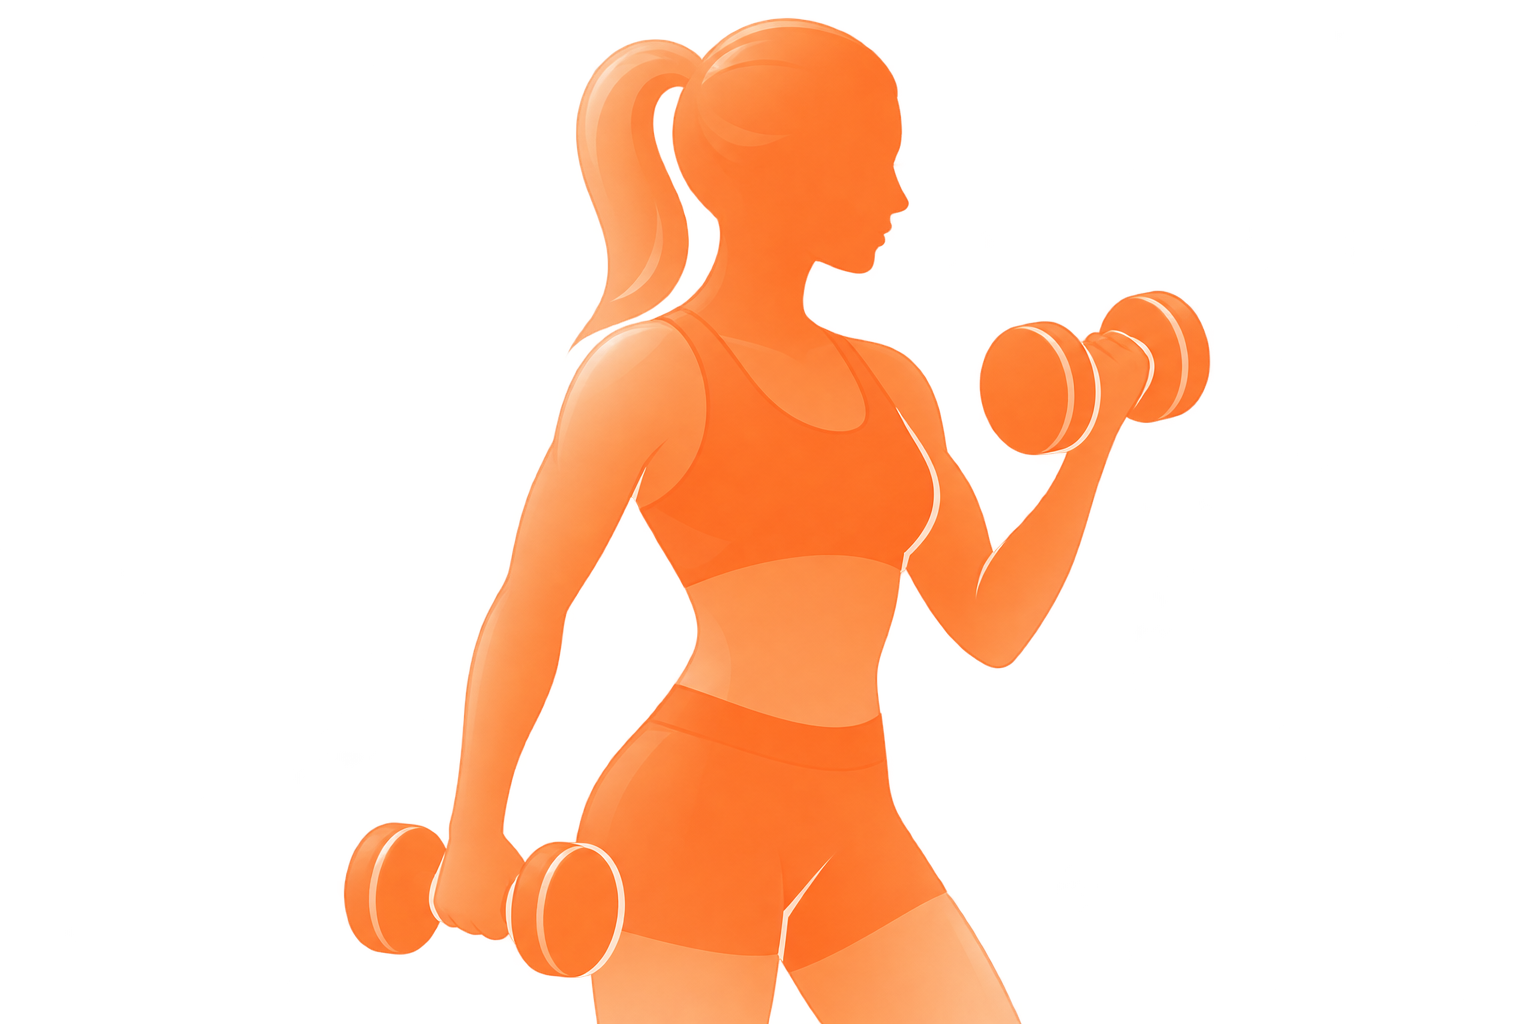
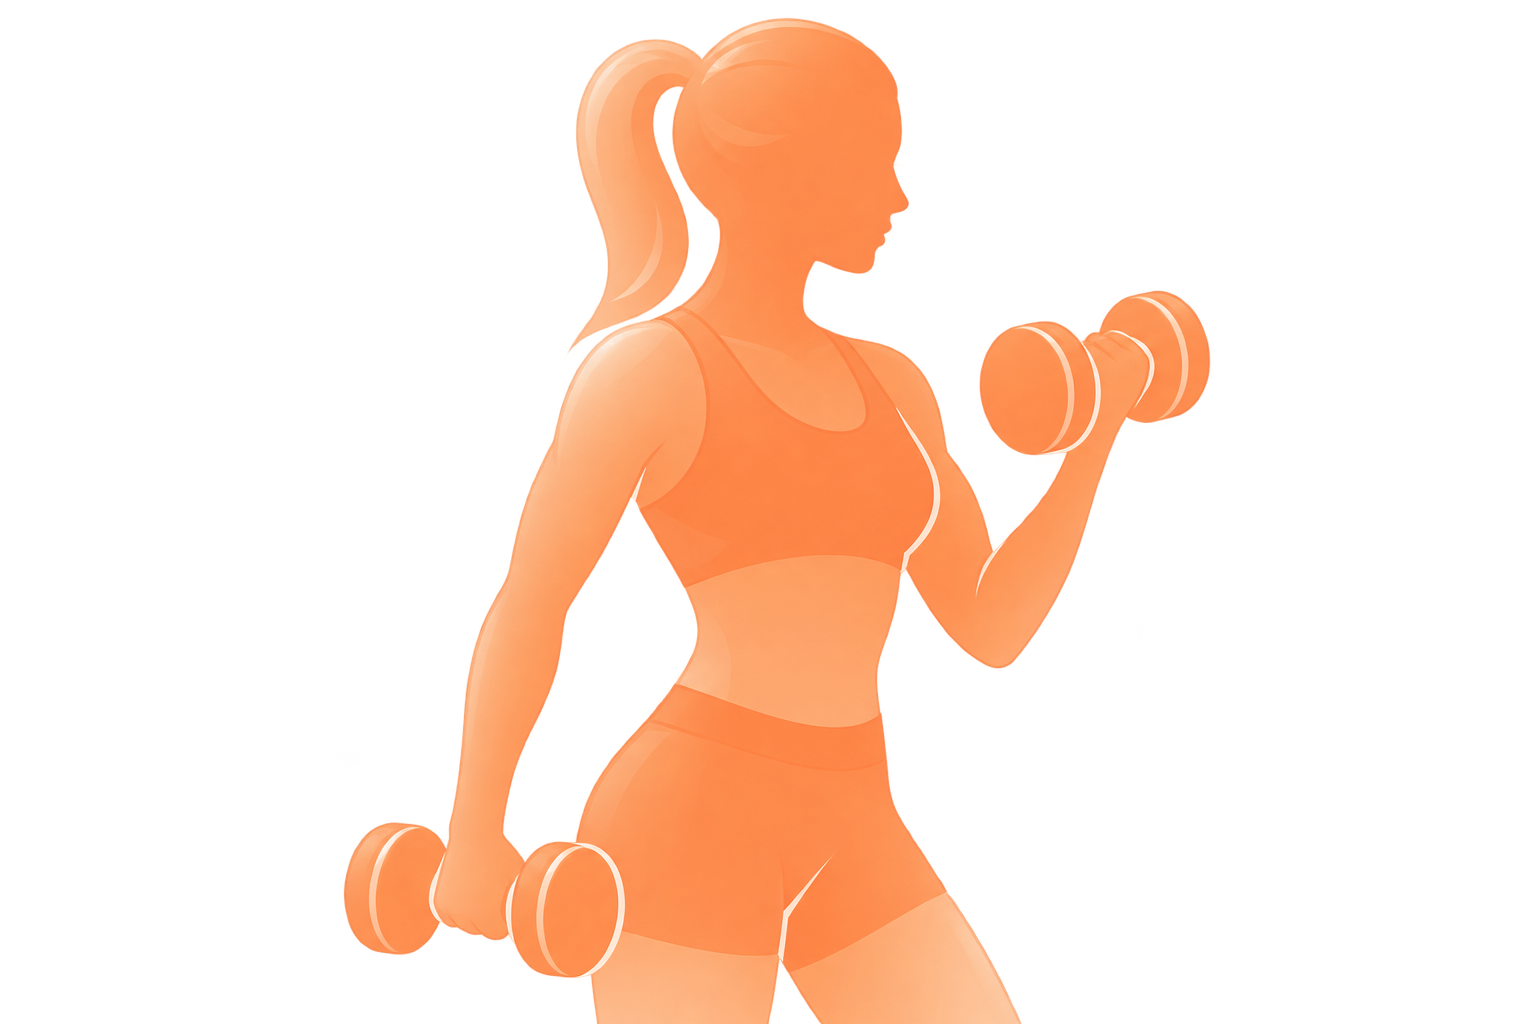
Dashboard UI tweaks.

Changed region(s): [[0.2188, 0.0, 0.8125, 1.0]]

diff --git a/lib/features/dashboard/presentation/widgets/dashboard_stats_section.dart b/lib/features/dashboard/presentation/widgets/dashboard_stats_section.dart
@@ -1,9 +1,10 @@
 import 'package:coach_studio/app/routing/app_route_names.dart';
 import 'package:coach_studio/core/theme/app_colors.dart';
+import 'package:coach_studio/features/athlete/domain/entities/athlete_summary.dart';
+import 'package:coach_studio/features/athlete/presentation/cubit/athlete_cubit.dart';
+import 'package:coach_studio/features/athlete/presentation/cubit/athlete_state.dart';
 import 'package:coach_studio/features/dashboard/domain/entities/programs_summary.dart';
 import 'package:coach_studio/features/dashboard/presentation/widgets/dashboard_stat_card.dart';
-import 'package:coach_studio/features/exercises/presentation/cubit/exercise_cubit.dart';
-import 'package:coach_studio/features/exercises/presentation/cubit/exercise_state.dart';
 import 'package:coach_studio/features/workout_programs/presentation/cubit/workout_program_cubit.dart';
 import 'package:coach_studio/features/workout_programs/presentation/cubit/workout_program_state.dart';
 import 'package:flutter/material.dart';
@@ -21,8 +22,8 @@ class DashboardStatsSection extends StatelessWidget {
       children: [
         Expanded(
           child: _ProgramsStatCard(
-            label: 'برنامهها',
-            icon: HugeIcons.strokeRoundedTask01,
+            label: 'کل برنامهها',
+            icon: HugeIcons.strokeRoundedClipboard,
             color: AppColors.primary,
             select: (summary) => summary.total,
           ),
@@ -30,14 +31,21 @@ class DashboardStatsSection extends StatelessWidget {
         const SizedBox(width: 10),
         Expanded(
           child: _ProgramsStatCard(
-            label: 'قالبها',
+            label: 'برنامههای پیشنویس',
             icon: HugeIcons.strokeRoundedCopy02,
             color: AppColors.accent,
             select: (summary) => summary.templates,
           ),
         ),
         const SizedBox(width: 10),
-        const Expanded(child: _ExercisesStatCard()),
+        Expanded(
+          child: _AthleteStatCard(
+            label: 'ورزشکارها',
+            icon: HugeIcons.strokeRoundedWorkoutRun,
+            color: AppColors.secondary,
+            select: (summary) => summary.total,
+          ),
+        ),
       ],
     );
   }
@@ -95,48 +103,49 @@ class _ProgramsStatCard extends StatelessWidget {
   }
 }
 
-class _ExercisesStatCard extends StatelessWidget {
-  const _ExercisesStatCard();
+class _AthleteStatCard extends StatelessWidget {
+  final String label;
+  final dynamic icon;
+  final Color color;
+  final int Function(AthleteSummary summary) select;
+
+  const _AthleteStatCard({
+    required this.label,
+    required this.icon,
+    required this.color,
+    required this.select,
+  });
 
   @override
   Widget build(BuildContext context) {
-    return BlocBuilder<ExerciseCubit, ExerciseState>(
+    return BlocBuilder<AthleteCubit, AthleteState>(
       builder: (context, state) {
-        final cubit = context.read<ExerciseCubit>();
-        const color = AppColors.secondary;
-        final icon = _statIcon(HugeIcons.strokeRoundedDumbbell01, color);
-        const label = 'تمرینها';
+        final cubit = context.read<AthleteCubit>();
+        final statIcon = _statIcon(icon, color);
 
-        if (state is ExerciseError) {
-          return DashboardStatCard(
-            icon: icon,
+        return switch (state) {
+          AthleteLoaded(:final athletes) => DashboardStatCard(
+            icon: statIcon,
+            iconContainerColor: color,
+            label: label,
+            value: select(AthleteSummary.fromAthletes(athletes)),
+            onTap: () => context.goNamed(AppRouteNames.athletes),
+          ),
+          AthleteError() => DashboardStatCard(
+            icon: statIcon,
             iconContainerColor: color,
             label: label,
             hasError: true,
-            onTap: () => cubit.loadExercises(),
-          );
-        }
-
-        // Total of the UNFILTERED catalog (see ExerciseCubit.totalExercises);
-        // null means it has not been loaded yet.
-        final total = cubit.totalExercises;
-        if (total == null) {
-          return DashboardStatCard(
-            icon: icon,
+            onTap: () => cubit.loadAthletes(),
+          ),
+          AthleteInitial() || AthleteLoading() => DashboardStatCard(
+            icon: statIcon,
             iconContainerColor: color,
             label: label,
             isLoading: true,
             onTap: null,
-          );
-        }
-
-        return DashboardStatCard(
-          icon: icon,
-          iconContainerColor: color,
-          label: label,
-          value: total,
-          onTap: () => context.goNamed(AppRouteNames.exercises),
-        );
+          ),
+        };
       },
     );
   }

diff --git a/lib/features/dashboard/presentation/widgets/dashboard_header.dart b/lib/features/dashboard/presentation/widgets/dashboard_header.dart
@@ -113,16 +113,15 @@ class _HeroGreeting extends StatelessWidget {
     return LayoutBuilder(
       builder: (context, constraints) {
         final imageWidth = (constraints.maxWidth * 0.42).clamp(130.0, 280.0);
-
         return SizedBox(
           height: _height,
           child: Stack(
             children: [
               PositionedDirectional(
-                end: -imageWidth * 0.03,
-                top: 9,
+                end: -imageWidth * 0.08,
+                top: 10,
                 child: _Blob(
-                  size: imageWidth * 0.75,
+                  size: (imageWidth * 0.8).clamp(150.0, 204.0),
                   gradient: AppColors.accentGradient,
                 ),
               ),

diff --git a/lib/features/athlete/domain/entities/athlete_summary.dart b/lib/features/athlete/domain/entities/athlete_summary.dart
@@ -12,4 +12,15 @@ class AthleteSummary {
     required this.archived,
     required this.recent,
   });
+
+  factory AthleteSummary.fromAthletes(List<Athlete> athletes) {
+    return AthleteSummary(
+      total: athletes.length,
+      active: athletes.where((a) => a.isArchived == false).length,
+      archived: athletes.where((a) => a.isArchived).length,
+      recent: athletes
+          .where((a) => a.createdAt?.month == DateTime.now().month)
+          .toList(),
+    );
+  }
 }

diff --git a/lib/features/dashboard/presentation/pages/dashboard_page.dart b/lib/features/dashboard/presentation/pages/dashboard_page.dart
@@ -25,7 +25,6 @@ class DashboardPage extends StatelessWidget {
                 crossAxisAlignment: CrossAxisAlignment.stretch,
                 children: [
                   DashboardHeader(),
-                  // SizedBox(height: AppSpacing.md),
                   Padding(
                     padding: EdgeInsets.symmetric(horizontal: 14),
                     child: DashboardQuickActions(),
